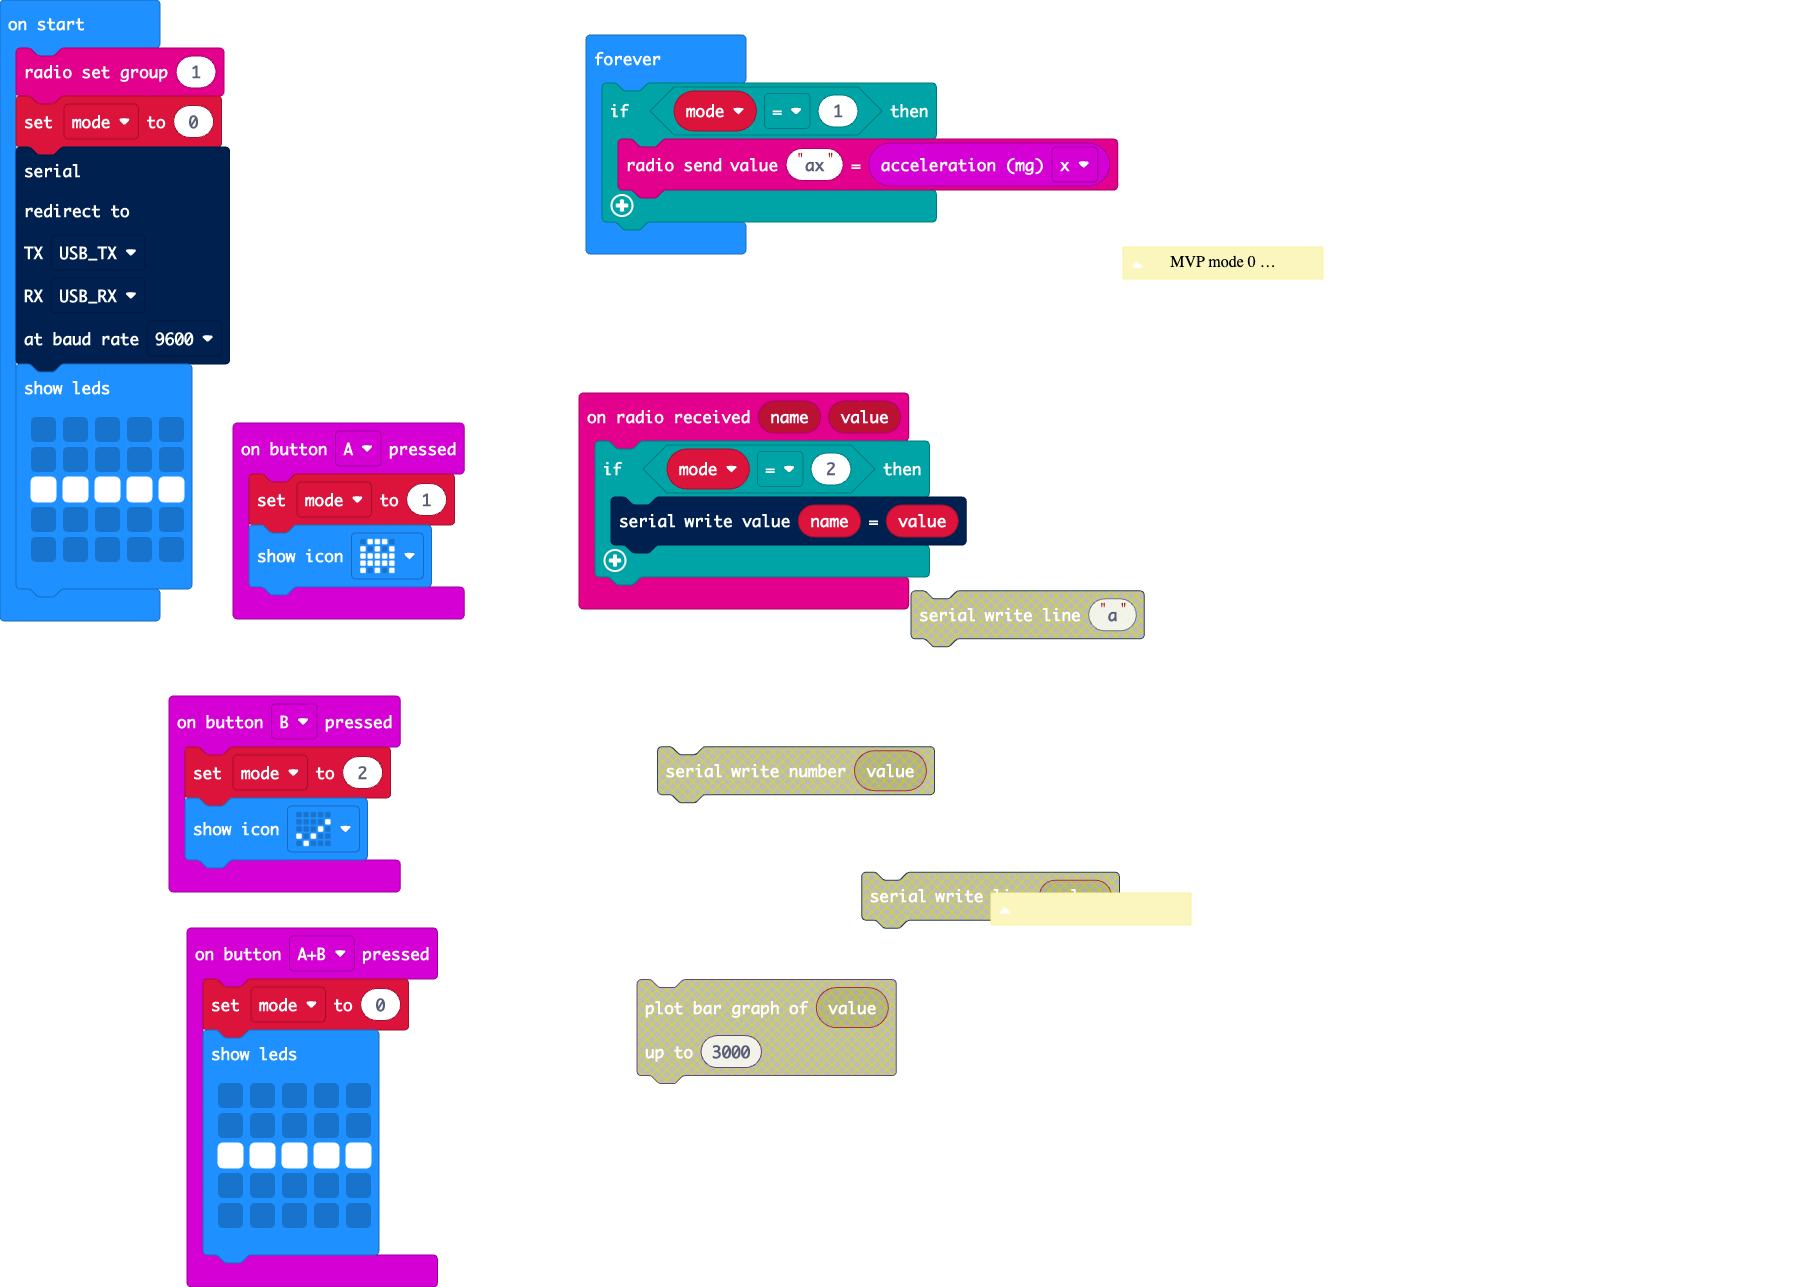
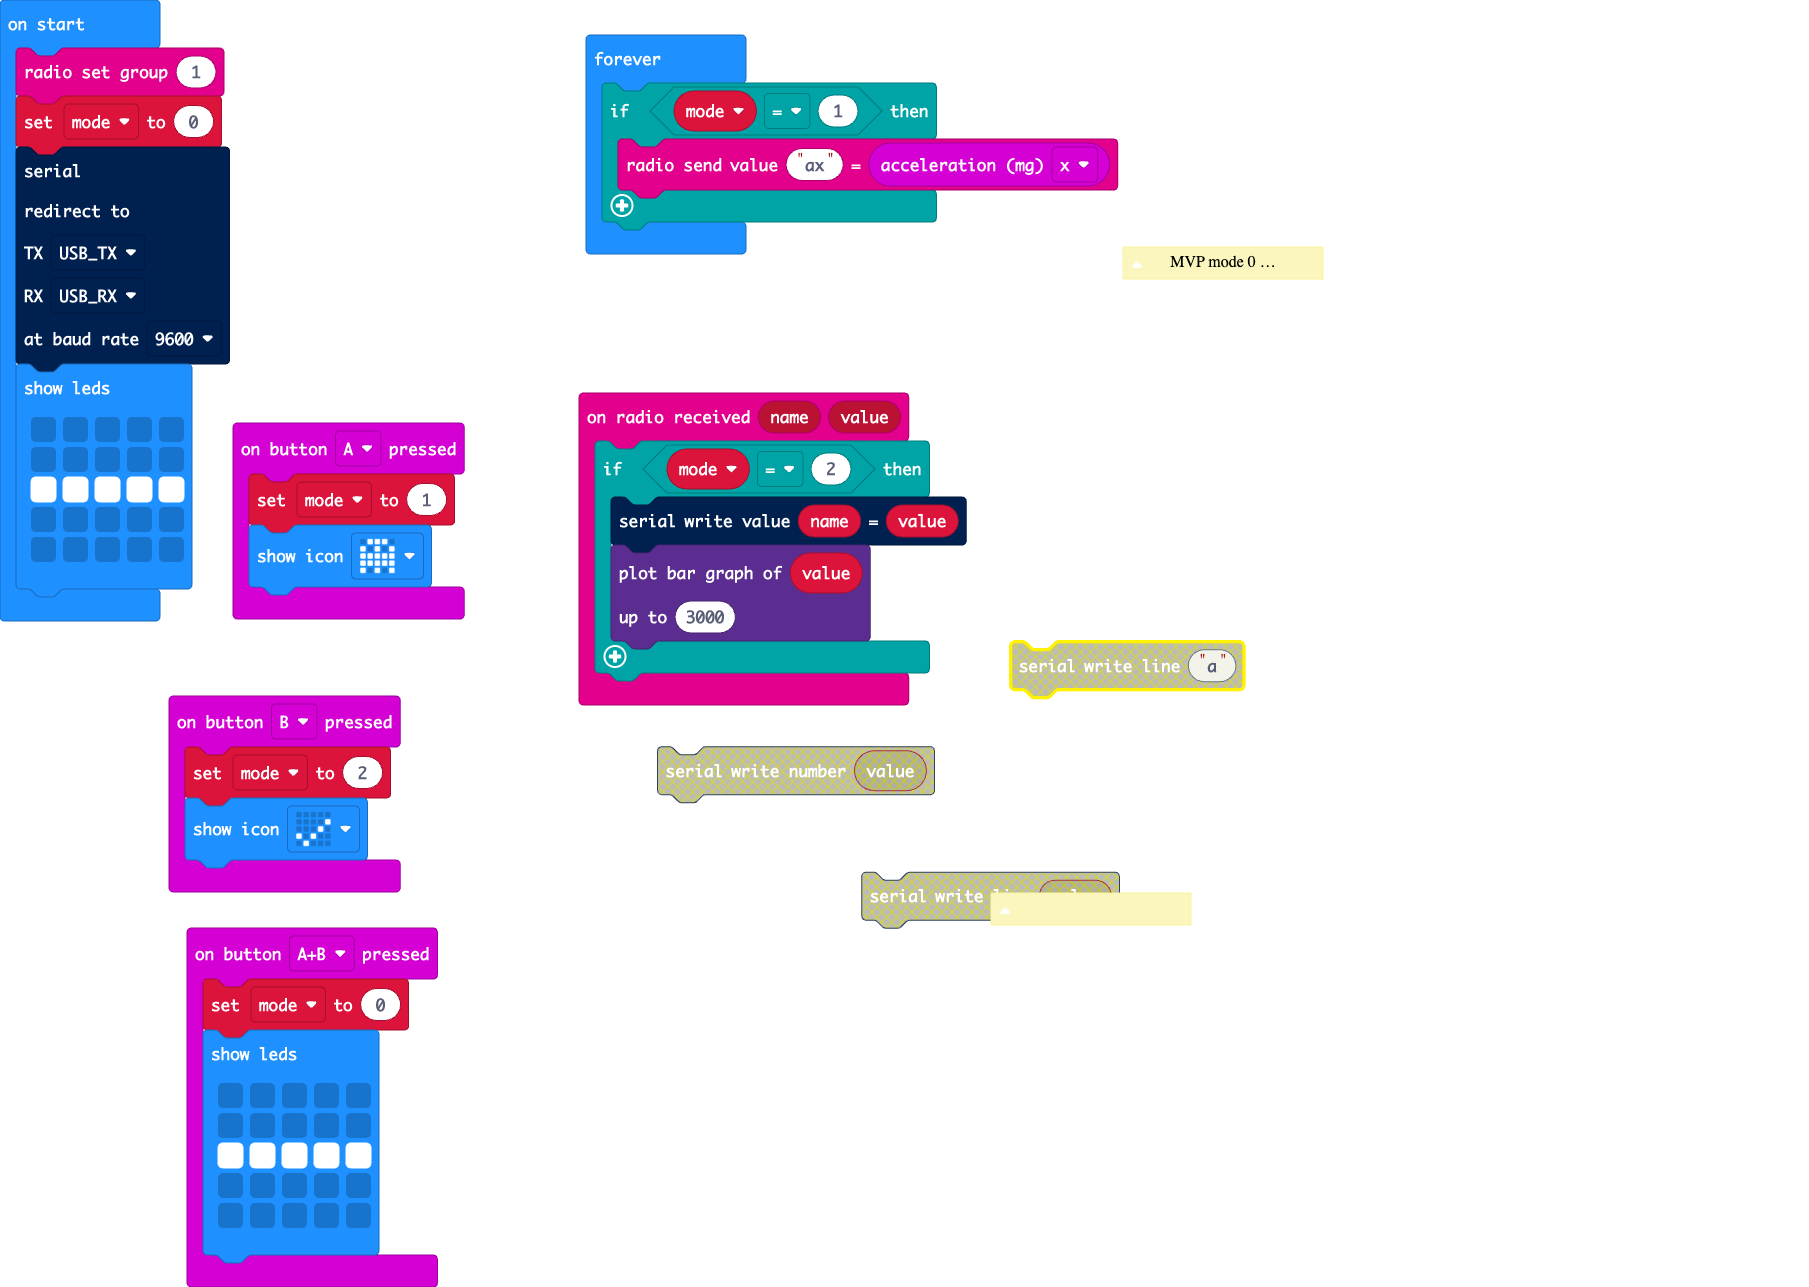
put graph back in

Changed region(s): [[0.3096, 0.404, 0.712, 0.5594], [0.3405, 0.7459, 0.4953, 0.8392]]

diff --git a/main.ts b/main.ts
@@ -21,6 +21,10 @@ input.onButtonPressed(Button.B, function () {
 radio.onReceivedValue(function (name, value) {
     if (mode == 2) {
         serial.writeValue(name, value)
+        led.plotBarGraph(
+        value,
+        3000
+        )
     }
 })
 let mode = 0
